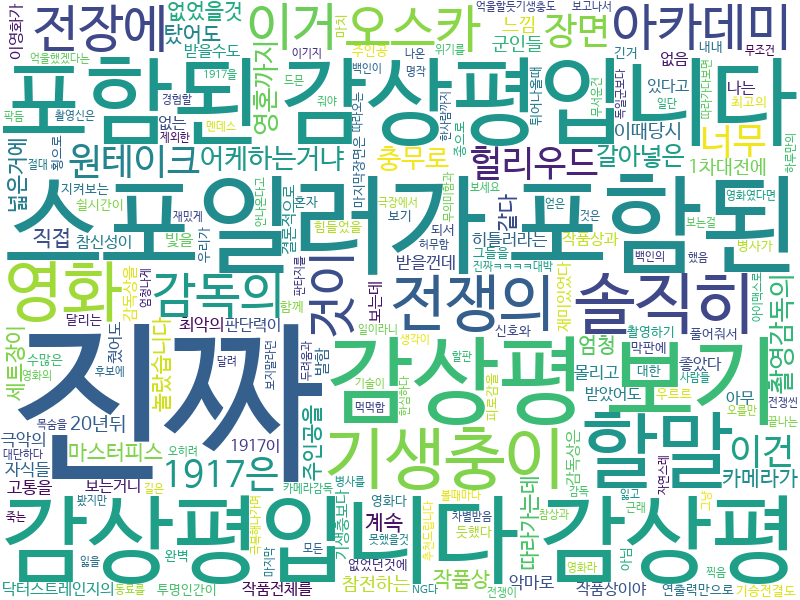
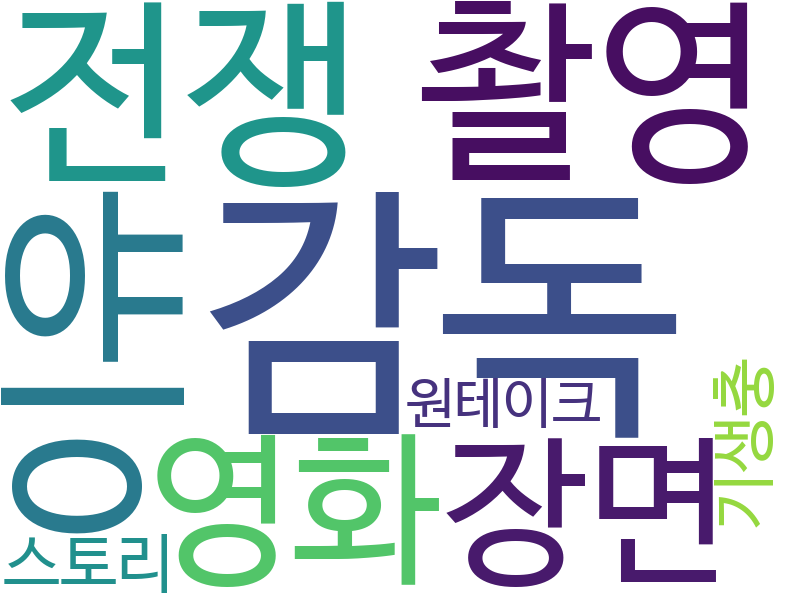
200412 updates at noon

diff --git a/200411_WebCrawling/flask_movie_SQLAlchemy/templates/content.html b/200411_WebCrawling/flask_movie_SQLAlchemy/templates/content.html
@@ -3,13 +3,28 @@
 {% block head %}
 
 <script>
-  function moviesearch(){
+  function movieword(code){
+    add="/movieword/"+code
+    console.log(add)
     $.ajax({
      type : "GET",
-     url : "/moviesearch",
+     url : add,
      dataType : "text",
      success : function(result){
-       $("#c1").html(result);
+       $("#img_src").html('<img src="/static/img/img'+code+'.png">');
+     }
+   });
+  }
+
+  function moviechart(code){
+    add="/moviechart/"+code
+    console.log(add)
+    $.ajax({
+     type : "GET",
+     url : add,
+     dataType : "text",
+     success : function(result){
+       $("#img_src").html(result);
      }
    });
   }

diff --git a/200411_WebCrawling/flask_movie_SQLAlchemy/movie_start.py b/200411_WebCrawling/flask_movie_SQLAlchemy/movie_start.py
@@ -1,0 +1,75 @@
+import requests
+from bs4 import BeautifulSoup
+from time import sleep
+import pandas as pd
+
+def Getdata(code_list,page=None):
+    # 영화 코드
+    # code_list = code_list    
+    # 현재 크롤링 중인 영화가 첫 번째 영화인지 여부
+    # chk = False
+    # 영화의 개수만큼 반복한다.
+    df = pd.DataFrame()
+    
+    for code in code_list:
+        # 1단계 : 해당 영화의 평점 페이지 수 계산
+        # 접속한다.
+        # code= 뒤의 %d를 지우고 원하는 영화코드를 입력해서 웹에서 검색해서 접속한다.
+        site1 = 'https://movie.naver.com/movie/bi/mi/pointWriteFormList.nhn?code={}&type=after&isActualPointWriteExecute=false&isMileageSubscriptionAlready=false&isMileageSubscriptionReject=false'.format(code)
+        res1 = requests.get(site1)
+        if res1.status_code == requests.codes.ok:
+            # 코드를 잘 읽어 왔는지 확인하는 코드
+            # html코드를 분석한다.
+            bs1 = BeautifulSoup(res1.text, 'html.parser')
+            score_total = bs1.find(class_='score_total')
+            ems = score_total.find_all('em')
+            # print(ems[0].text)
+            score_total = int(ems[0].text.replace(',', ''))
+            # replace하고 int로 자료형 변경해주어야 함
+            print(score_total)
+            # 페이지 수를 계산한다.
+            pageCnt = score_total // 10
+            print(pageCnt)
+            # 한 페이지에 10개씩 들어가므로 나머지가 남으면 페이지 수 + 1해준다
+            if score_total % 10 > 0:
+                pageCnt += 1
+            # 현재 페이지 번호(기본 page는 None으로 지정되어 있음)
+            if page!=None and pageCnt>=page:
+                pageCnt=page
+                
+            print(pageCnt)
+            # 현재 페이지는 첫 번째 페이지로
+            now_page = 1
+
+            # 2단계 : 평점 글 정보와 평점을 가져온다.
+            while now_page <= pageCnt:
+                sleep(0.5) # 잠깐 쉬었다 실행
+                
+                print('%d / %d' % (now_page, pageCnt))
+                # 요청 할 페이지의 주소
+                site2 = 'https://movie.naver.com/movie/bi/mi/pointWriteFormList.nhn?code={}&type=after&isActualPointWriteExecute=false&isMileageSubscriptionAlready=false&isMileageSubscriptionReject=false&page={}'.format(code, now_page)
+                res2 = requests.get(site2)
+                if res2.status_code == requests.codes.ok:
+                    # 코드 잘 읽었는지 확인
+                    bs2 = BeautifulSoup(res2.text, 'html.parser')
+                    score_result = bs2.find(class_='score_result')
+                    lis = score_result.find_all('li')
+                    
+                    for obj in lis:
+                        # 평점
+                        star_score = obj.find(class_='star_score')
+                        star_em = star_score.find('em')
+                        star_score = int(star_em.text)
+                        # 평가글
+                        score_reple = obj.find(class_='score_reple')
+                        reple_p = score_reple.find('span')
+                        score_reple = reple_p.text.strip()
+                        print(star_score, score_reple)
+                        # 데이터를 누적한다
+                        if score_reple=='' or score_reple=='관람객':
+                            continue
+                        else:
+                            df = df.append([[score_reple, star_score]], ignore_index=True)
+                    now_page += 1
+    df.columns = ['text', 'star']
+    return df

diff --git a/200411_WebCrawling/flask_movie_SQLAlchemy/movie_wordcloud.py b/200411_WebCrawling/flask_movie_SQLAlchemy/movie_wordcloud.py
@@ -1,0 +1,20 @@
+from wordcloud import WordCloud
+import matplotlib.pyplot as plt
+import os
+
+def displayWordCloud(code,data = None, backgroundcolor = 'white', width=800, height=600 ):
+    # 제외할 단어 지정
+    stopwords_kr = ['있었다','것이다'] 
+    wordcloud = WordCloud(
+                        #font_path = '/Library/Fonts/NanumBarunGothic.ttf', 
+                        font_path = '/opt/conda/lib/python3.7/site-packages/matplotlib/mpl-data/fonts/ttf/NanumBarunGothic.ttf',
+                        stopwords = stopwords_kr,
+                        background_color = backgroundcolor, # 기본 인자값으로 white로 받았음. 추후 변경 가능
+                        width = width, height = height).generate(data)
+    #print(wordcloud.words_)
+    # 이미지로 결과 저장
+    print(os.getcwd())
+    file_dir=os.path.dirname(os.path.realpath(__file__))
+    os.path.dirname(os.path.realpath(__file__))
+    file_name="img" + code + ".png"
+    wordcloud.to_file(file_dir+"/static/img/"+file_name)

diff --git a/200411_WebCrawling/flask_movie_SQLAlchemy/app.py b/200411_WebCrawling/flask_movie_SQLAlchemy/app.py
@@ -1,6 +1,7 @@
 from flask import Flask,request,render_template,redirect,url_for,jsonify
 import naver_movie,movie_start,movie_wordcloud
 import pandas as pd
+from soynlp.noun import LRNounExtractor
 
 app=Flask(__name__)
 
@@ -56,8 +57,12 @@ def content(code):
 
 @app.route('/movieword/<code>')
 def movieword(code):
-    df1=movie_start.Getdata([code],10)
-    movie_wordcloud.displayWordCloud(str(code),' '.join(df1['text']))    
+    df1=movie_start.Getdata([code],15)
+    # Soynlp로 명사 추출
+    noun_extractor = LRNounExtractor(verbose=True)
+    noun_extractor.train(df1['text'])
+    nouns = noun_extractor.extract()
+    movie_wordcloud.displayWordCloud(str(code),' '.join(nouns))
     return "ok"
 
 @app.route('/moviechart/<code>')
